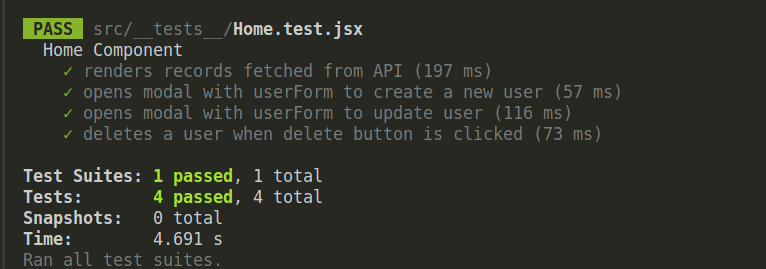
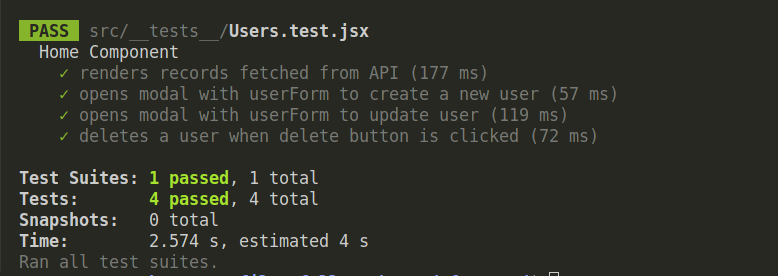
refactoring

Changed region(s): [[0.0, 0.0595, 0.8107, 0.5353], [0.0, 0.5948, 0.4804, 1.0], [0.6906, 0.9814, 0.7206, 1.0]]

diff --git a/backend/tests/test-user-routes.test.js b/backend/tests/test-user-routes.test.js
@@ -4,28 +4,44 @@ const app = require('../app');
 
 describe('User Routes', () => {
 
-  let testUser = {};
-  const testUsersIds = [];
+  const testUserData = {
+    name: 'TestUser',
+    age: 30,
+    email: 'test.user@example.com',
+    interests: 'test data',
+    address: 300,
+  };
+  let testUserObj = {};
+  const testNewUserData = {
+    name: 'TestNewUser',
+    age: 30,
+    email: 'test.new.user@example.com',
+    interests: 'test data',
+    address: 300,
+  };
+  // Delete test users by email
+  const deleteTestUsers = async () => {
+    return await User.deleteMany({
+      email: {
+        $in: [
+          testUserData.email,
+          testNewUserData.email,
+        ]
+      },
+    });
+  }
 
   beforeAll(async () => {
+    await deleteTestUsers();
+
     // Create test user
-    testUser = new User({
-      name: 'TestUser',
-      age: 30,
-      email: 'test.user@example.com',
-      interests: 'test data',
-      address: 300,
-    });
+    testUserObj = new User(testUserData);
 
     // Save test user
-    await testUser.save();
-
-    // Save test user id
-    testUsersIds.push(testUser._id.toString());
+    await testUserObj.save();
   });
   afterAll(async () => {
-    // Delete test users
-    await User.deleteMany({ _id: {$in:testUsersIds} });
+    await deleteTestUsers();
   });
 
   describe('GET /api/users', () => {
@@ -47,17 +63,9 @@ describe('User Routes', () => {
     it('should create a new user', async () => {
       const response = await request(app)
         .post('/api/users')
-        .send({
-          name: 'TestNewUser',
-          age: 30,
-          email: 'test.new.user@example.com',
-          interests: 'test data',
-          address: 300,
-        });
+        .send(testNewUserData);
       expect(response.status).toBe(201);
       expect(typeof response.body).toBe('object');
-      // Save new test user id
-      testUsersIds.push(response.body._id)
     });
 
     it('should return 400 bad request for missing fields', async () => {
@@ -70,7 +78,7 @@ describe('User Routes', () => {
 
   describe('GET /api/users/:id', () => {
     it('should return a single user', async () => {
-      const response = await request(app).get(`/api/users/${testUser._id}`);
+      const response = await request(app).get(`/api/users/${testUserObj._id}`);
       expect(response.status).toBe(200);
       expect(typeof response.body).toBe('object');
     });
@@ -84,7 +92,7 @@ describe('User Routes', () => {
   describe('PUT /api/users/:id', () => {
     it('should update an existing user', async () => {
       const response = await request(app)
-        .put(`/api/users/${testUser._id}`)
+        .put(`/api/users/${testUserObj._id}`)
         .send({
           name: 'Updated TestUser',
         });
@@ -102,12 +110,12 @@ describe('User Routes', () => {
 
   describe('DELETE /api/users/:id', () => {
     it('should delete a user', async () => {
-      const response = await request(app).delete(`/api/users/${testUser._id}`);
+      const response = await request(app).delete(`/api/users/${testUserObj._id}`);
       expect(response.status).toBe(200);
       expect(response.body.message).toBe('User deleted successfully');
 
       // Verify the user is removed from the database
-      const deletedUser = await User.findById(testUser._id);
+      const deletedUser = await User.findById(testUserObj._id);
       expect(deletedUser).toBeNull();
     });
 

diff --git a/frontend/src/App.jsx b/frontend/src/App.jsx
@@ -1,14 +1,14 @@
 // src/App.jsx
 import { BrowserRouter as Router, Route, Routes } from 'react-router-dom';
-import Home from './pages/Home';
+import Users from './pages/Users';
 
 function App() {
   return (
     <Router>
       <Routes>
-        <Route path="/" element={<Home />} />
-        <Route path="/create" element={<Home />} />
-        <Route path="/edit/:id" element={<Home />} />
+        <Route path="/" element={<Users />} />
+        <Route path="/create" element={<Users />} />
+        <Route path="/edit/:id" element={<Users />} />
       </Routes>
     </Router>
   );

diff --git a/README.md b/README.md
@@ -28,7 +28,7 @@
 - Run `npm start` to run application server
     - Open in browser `localhost:3000` to check if app is working (set defined in `.env` port if changed)
 - Run `npm run test` to test endpoints
-    - runs on defined in `.env` > `MONGODB_URI` database (should be replaced with usage of `mongodb-memory-server`)
+    - runs on defined in `.env` > `MONGODB_URI` database (TODO: should be replaced with usage of `mongodb-memory-server`)
 
 ## Frontend, CRUD app (ReactJS, TailwindCSS, Vite)
 
@@ -45,7 +45,7 @@
 
 ## Notes
 
-- MVP-like solution with basic architectural decisions and no extra libraries (like: UI, validation, storage, ORM)
+- MVP-like solution with basic architectural decisions and no extra libraries (like: UI, validation, storage)
 
 ## Screenshots
 
